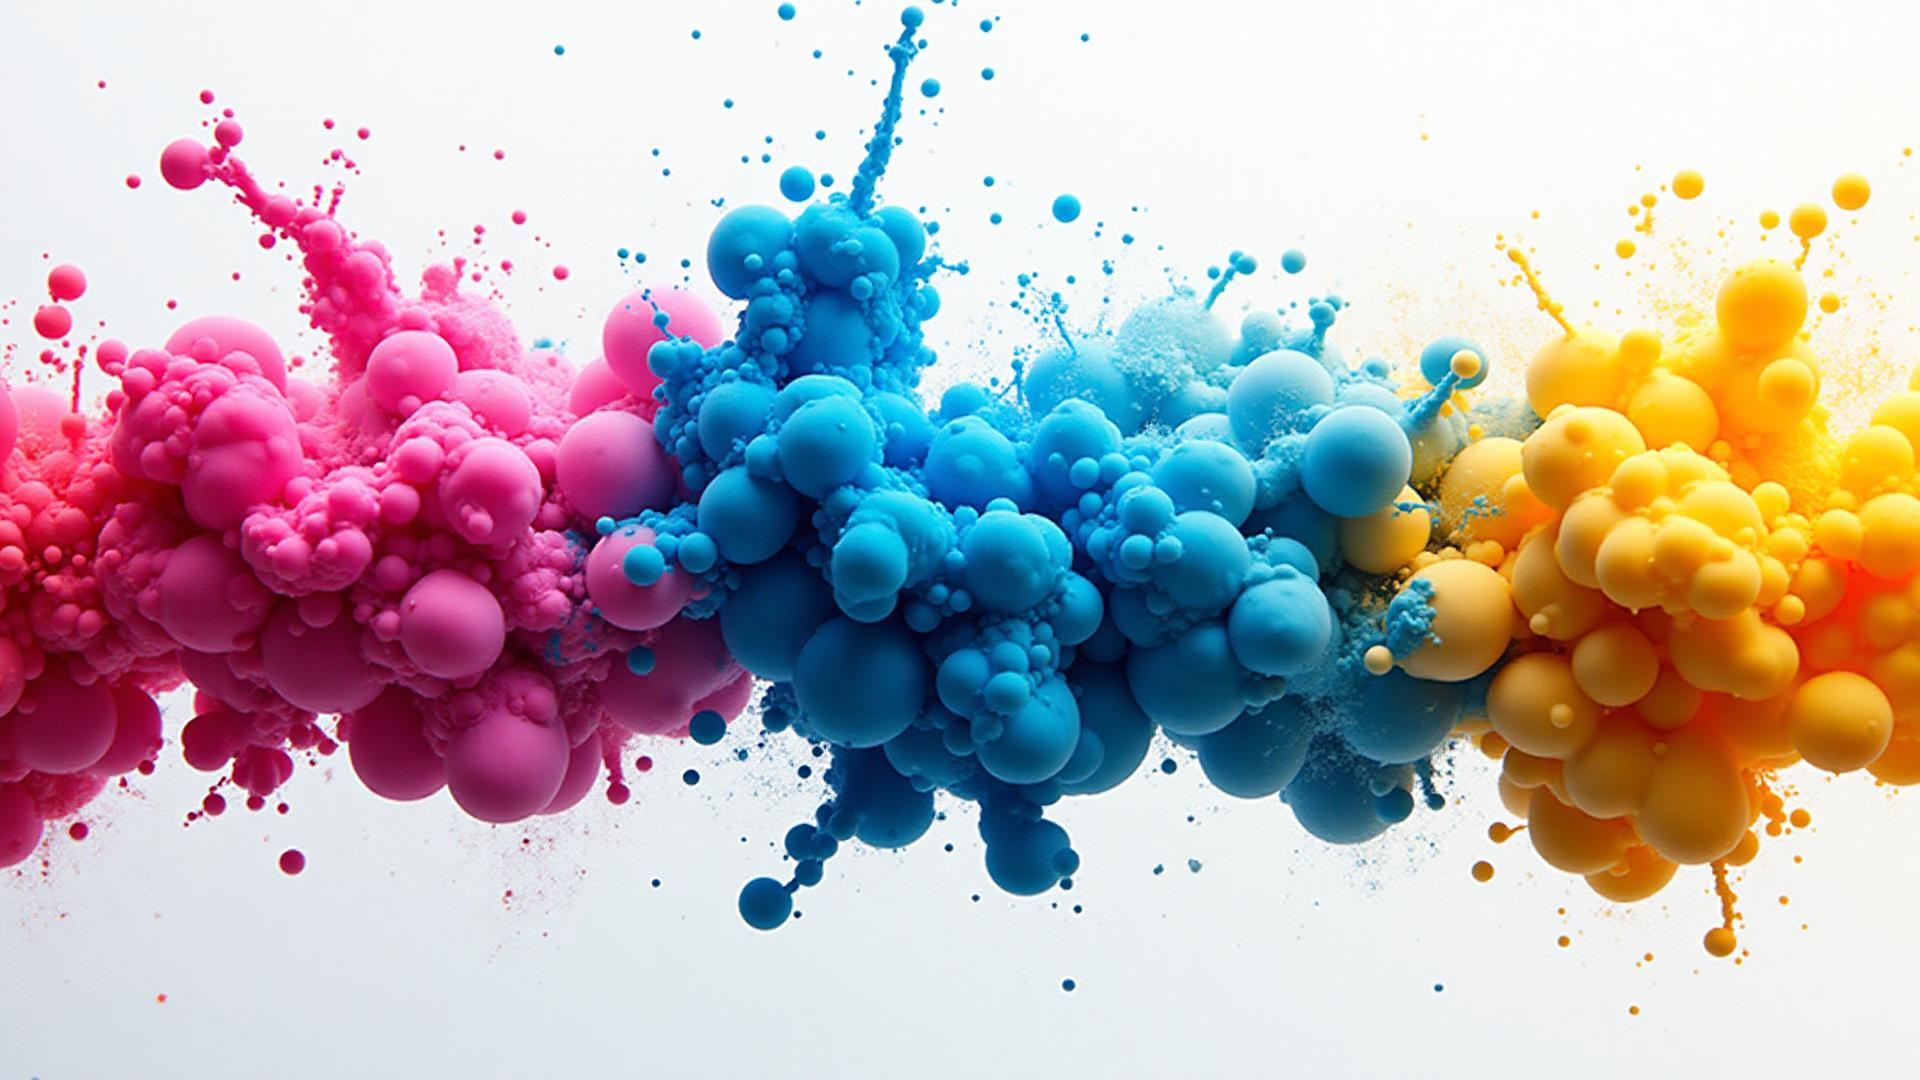
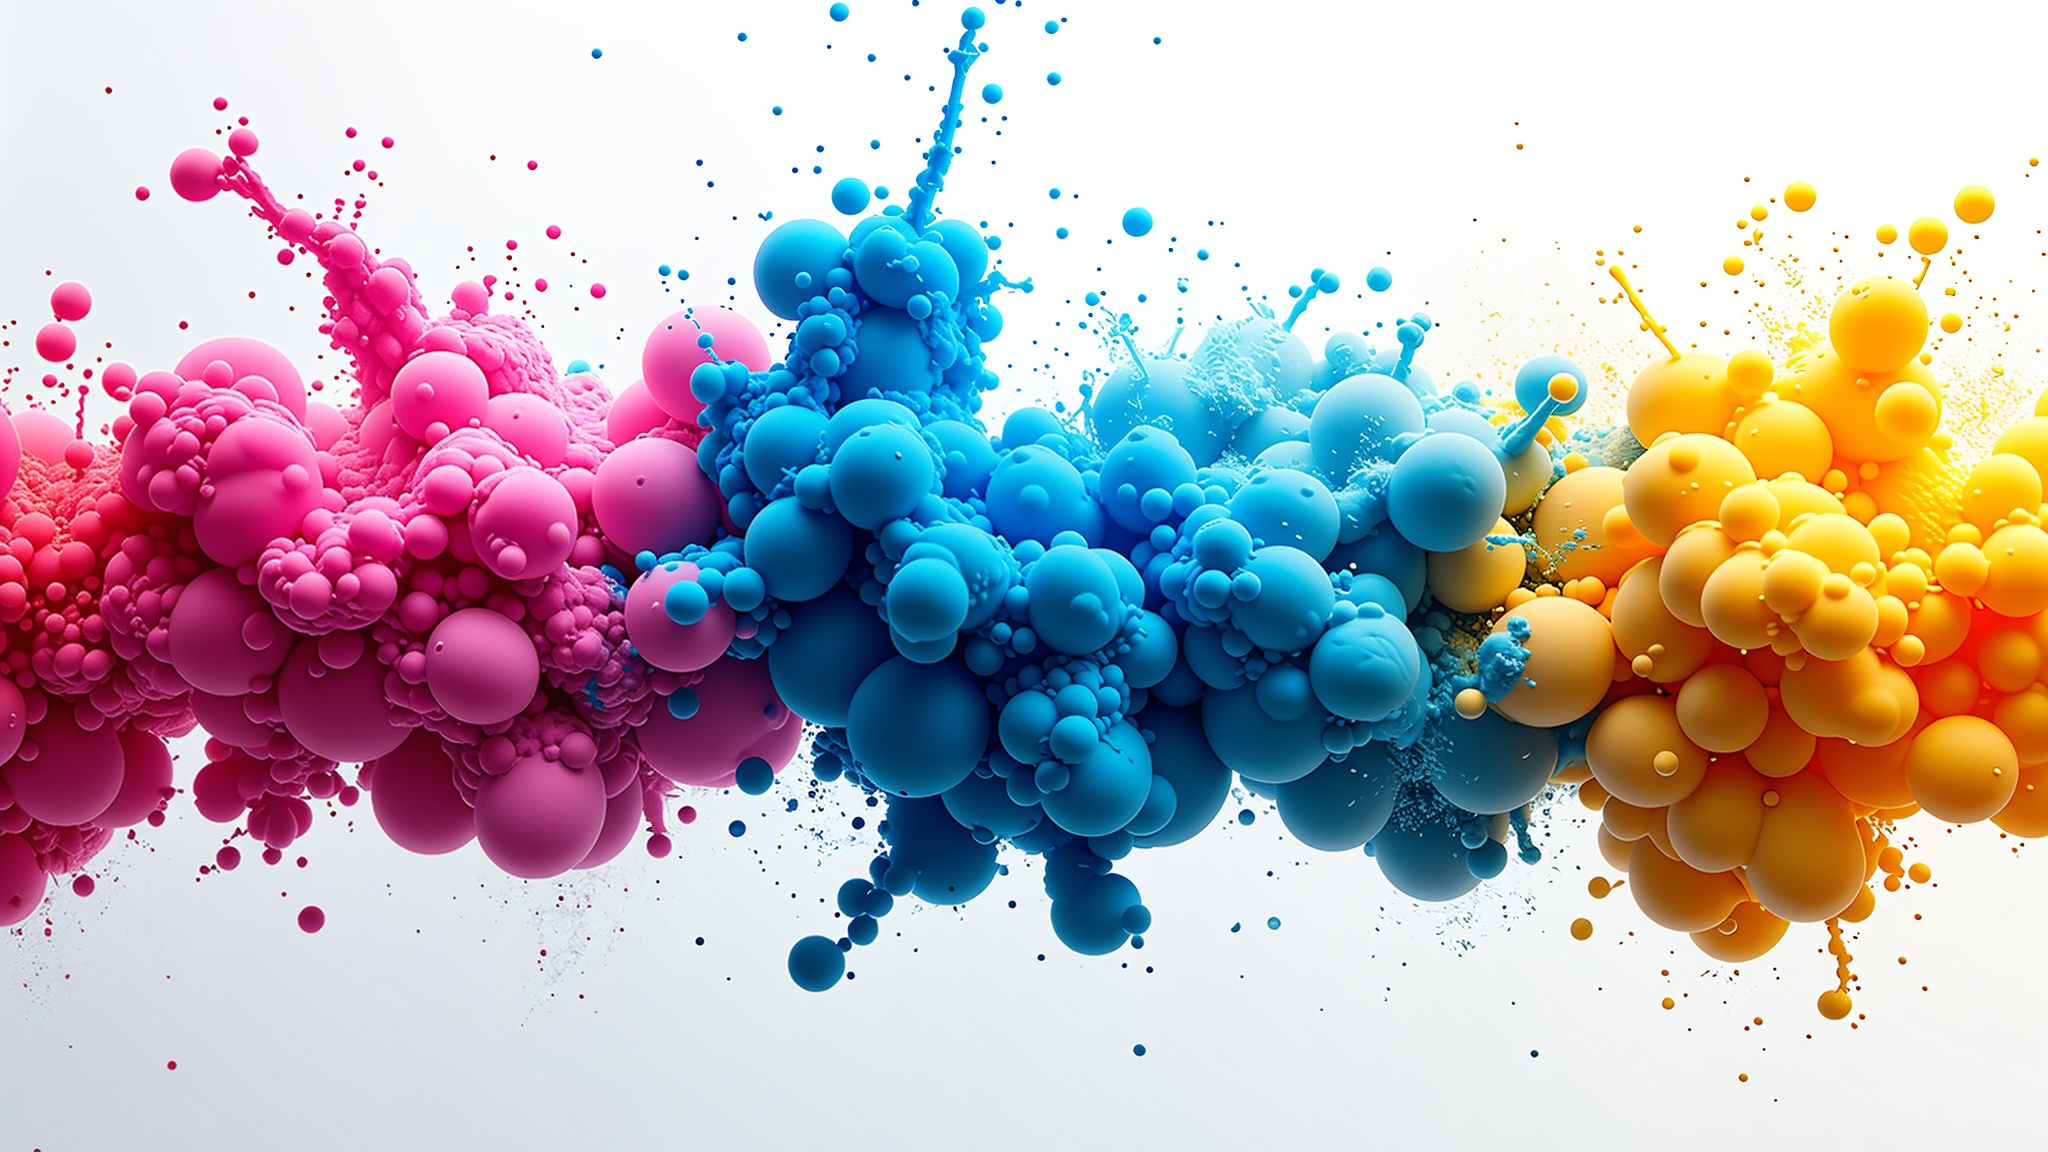
ok

diff --git a/src/styles/global.css b/src/styles/global.css
@@ -35,9 +35,21 @@ html {
     text-align: center;
     color: white;
     overflow: hidden;
+}
+
+.hero-background {
+    position: absolute;
+    top: 0;
+    left: 0;
+    width: 100%;
+    height: 100%;
     background-image: url('/src/assets/hero/color-explosion.jpg');
     background-size: cover;
     background-position: center;
+    filter: blur(4px);
+    -webkit-filter: blur(4px);
+    transform: scale(1.05); /* Evita bordes borrosos */
+    z-index: 0;
 }
 
 .hero-overlay {
